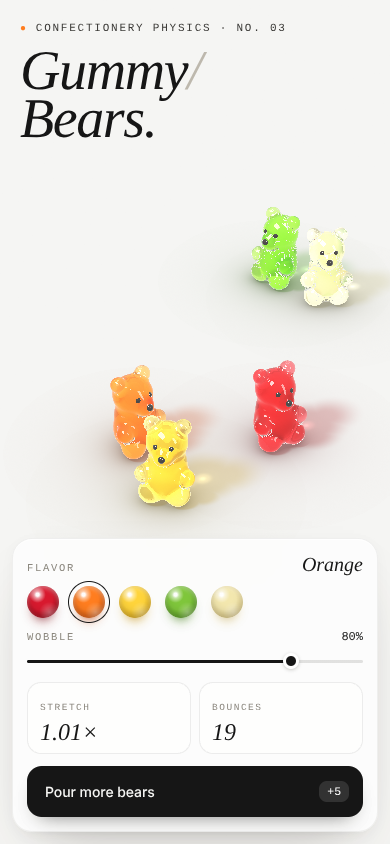
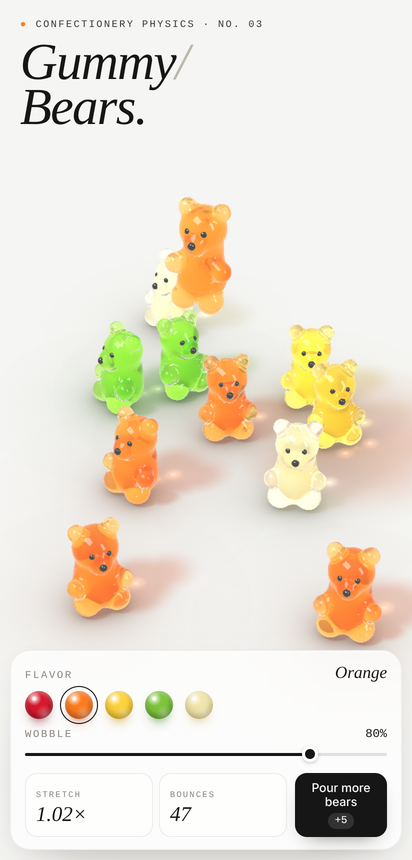
Fix unnatural scenes: no bear towers, natural taffy limit, mixed pours, phone layout
- Bears perched on other bears slide and tip off instead of stacking.
- Pulled parts stop at a natural taffy length (thinning floor 0.45);
  pulling further drags or lifts the whole bear.
- Pours land in open spots and mix flavors; flavor swatch recolors the
  last-touched (or front-most) bear; 12-bear cap on phones.
- Compact phone control card; table bounds stop above the card.
- Sharper rendering on phones (higher resolution floor, cheaper inner
  marches) and tamed grazing-angle sparkle on silhouettes.
- README (EN/zh-TW) updated to match.

diff --git a/gummy-bears.html b/gummy-bears.html
@@ -202,26 +202,34 @@
     .hints { grid-template-columns: max-content; }
   }
   @media (max-width: 860px), (max-height: 560px) {
-    .masthead { top: 22px; left: 20px; max-width: 300px; }
-    h1 { font-size: 56px; margin: 12px 0 10px; }
+    .masthead { top: 20px; left: 20px; max-width: 300px; }
+    .eyebrow { font-size: 10px; }
+    h1 { font-size: 52px; margin: 10px 0 8px; }
     .lede { font-size: 12.5px; max-width: 280px; }
     .hints { display: none; }
     .card {
-      top: auto; bottom: 12px; right: 12px; left: 12px; transform: none; width: auto;
-      padding: 14px 14px 14px; border-radius: 20px;
-      display: grid; grid-template-columns: 1fr 1fr; column-gap: 16px;
+      top: auto; bottom: max(10px, env(safe-area-inset-bottom)); right: 10px; left: 10px; transform: none; width: auto;
+      padding: 12px 14px; border-radius: 20px;
+      display: grid; grid-template-columns: minmax(0, 1fr) auto; column-gap: 8px;
     }
-    .card .flavor-block { grid-column: 1 / -1; }
-    .swatches { margin: 10px 0 12px; justify-content: flex-start; gap: 14px; }
-    .swatch { width: 32px; height: 32px; }
-    .slider { margin: 8px 0 12px; }
-    .stats { margin-bottom: 12px; }
-    .stat .num { font-size: 24px; }
-    .card .pour-block { grid-column: 1 / -1; }
+    .card .flavor-block, .card .wobble-block { grid-column: 1 / -1; }
+    .value-serif { font-size: 17px; }
+    .swatches { margin: 8px 0 8px; justify-content: flex-start; gap: 12px; }
+    .swatch { width: 28px; height: 28px; }
+    .slider { margin: 4px 0 10px; }
+    .stats { margin: 0; gap: 6px; }
+    .stat { padding: 7px 10px 6px; border-radius: 12px; }
+    .stat .label { font-size: 8.5px; }
+    .stat .num { font-size: 21px; margin-top: 3px; }
+    .pour-block { display: flex; }
+    .pour {
+      flex-direction: column; justify-content: center; gap: 4px; width: 92px; padding: 8px 10px;
+      font-size: 12px; line-height: 1.15; text-align: center; border-radius: 12px;
+    }
+    .pour .plus { padding: 2px 7px; font-size: 10.5px; }
   }
   @media (max-width: 420px) {
     .lede { display: none; }
-    .card { grid-template-columns: 1fr; }
   }
 </style>
 </head>
@@ -464,9 +472,9 @@ vec3 background(vec3 p, vec3 d) {
 }
 
 // ---------- Gelatin ----------
-float innerThick(int b, vec3 ro, vec3 rd) {
+float innerThick(int b, vec3 ro, vec3 rd, int steps) {
   float t = 0.0;
-  for (int i = 0; i < 30; i++) {
+  for (int i = 0; i < steps; i++) {
     float d = bearSDF(b, ro + rd * t);
     if (d > 0.0) break;
     t += max(-d * 0.95, 0.014);
@@ -503,13 +511,14 @@ vec3 shadeGummy(vec3 rd, vec3 p, vec3 n, int b) {
 
   float NdV = clamp(dot(n, -rd), 0.0, 1.0);
   float F = 0.04 + 0.96 * pow(1.0 - NdV, 5.0);
+  F *= mix(0.5, 1.0, smoothstep(0.0, 0.3, NdV));   // tame grazing sparkle on silhouettes
   vec3 R = reflect(rd, n);
-  vec3 refl = env(R);
+  vec3 refl = min(env(R), vec3(8.0));
 
   // Refraction through the body (Beer-Lambert)
   vec3 T = refract(rd, n, 1.0 / 1.45);
   p -= n * 0.012;                       // start just inside the gelatin
-  float th = innerThick(b, p, T) + 0.012;
+  float th = innerThick(b, p, T, 26) + 0.012;
   vec3 pe = p + T * th;
   vec3 ne = bearNormal(b, pe);
   vec3 To = refract(T, -ne, 1.45);
@@ -518,7 +527,7 @@ vec3 shadeGummy(vec3 rd, vec3 p, vec3 n, int b) {
 
   // Single scattering at mid-path: light that crossed the gelatin from the key softbox
   vec3 pm = p + T * th * 0.5;
-  float thl = innerThick(b, pm, LDIR);
+  float thl = innerThick(b, pm, LDIR, 12);
   vec3 scat = LCOL * exp(-sigma * (thl + th * 0.5)) * (1.0 - exp(-th * 1.6)) * 0.95;
   scat += col * col * 0.07 * (1.0 - exp(-th * 2.0));
   float wrap = clamp((dot(n, LDIR) + 0.5) / 1.5, 0.0, 1.0);
@@ -593,7 +602,7 @@ void main() {
   float t = tS;
   if (nc > 0) {
     tE = min(tE, tF + 0.01);
-    for (int i = 0; i < 128; i++) {
+    for (int i = 0; i < 100; i++) {
       int b; bool e;
       float d = mapScene(ro + rd * t, b, e);
       if (d < 0.0005 * t) { hit = true; hb = b; eyeHit = e; break; }
@@ -659,6 +668,7 @@ const MASS = NODES.map(n => n.m);
 const KB = NODES.map(n => n.kb);
 const M_TOTAL = MASS.reduce((a, b) => a + b, 0);
 const BONE = NODES.map((n, i) => n.parent < 0 ? [0, 0, 0] : REST[i].map((x, a) => x - REST[n.parent][a]));
+const IS_TOP = [0, 0, 1, 1, 1, 1, 0, 0, 0, 0];
 const NECK = [0.14, 0.32, 0, 0, 0, 0, 0.16, 0.16, 0, 0];         // torso follows a pulled head
 const KS = [1, 1, 1, 1.25, 1.25, 1.25, 0.8, 0.8, 1.1, 1.1];
 const DRAGW = [1.7, 1.7, 0.75, 0.4, 0.4, 0.4, 0.5, 0.5, 0.6, 0.6];
@@ -734,7 +744,8 @@ function makeBear(x, y, z, yaw, fl) {
     sy: 1, syVel: 0, anchor: 0, liftF: 0, upBias: 0,
     col: FLAVORS[fl].lin.slice(), tcol: FLAVORS[fl].lin.slice(), fl,
     alive: 1, dying: false, bounceCD: 0, air: 1,
-    com: [x, y, z], vcom: [0, 0, 0], base: [x, y, z], dh: [0, 0, 0],
+    com: [x, y, z], vcom: [0, 0, 0], base: [x, y, z], dh: [0, 0, 0], perch: [0, 0, 0], dragLift: false,
+    slipDir: rand(0, Math.PI * 2),
     wp: new Float32Array(NN * 3), wr: new Float32Array(NN), f: new Float32Array(NN).fill(1),
   };
   qToMat(B.q, B.R);
@@ -751,24 +762,38 @@ function makeBear(x, y, z, yaw, fl) {
 
 function setFlavor(B, fl) { B.fl = fl; B.tcol = FLAVORS[fl].lin.slice(); }
 
-function queuePour(n, flavorFn, delay = 0) {
-  const xs = [];
-  for (let k = 0; k < n; k++) {
-    const zc = rand(-1.3, 2.2);
-    const s = clamp((zc - bounds.zFar) / (bounds.zNear - bounds.zFar), 0, 1);
+function maxBears() { return W <= 860 || Hh <= 560 ? 12 : MAXB; }
+
+// pick the open spot on the table farthest from other bears (and queued drops)
+function freeSpot(taken) {
+  const zLo = bounds.zFar + 0.6, zHi = bounds.zNear - 0.6;
+  let best = null, bestD = -1;
+  for (let k = 0; k < 24; k++) {
+    const z = rand(zLo, zHi);
+    const s = clamp((z - bounds.zFar) / (bounds.zNear - bounds.zFar), 0, 1);
     const xl0 = lerp(bounds.xlf, bounds.xln, s), xr0 = lerp(bounds.xrf, bounds.xrn, s);
-    const xl = lerp(xl0, xr0, 0.3), xr = xr0 - 0.6;
-    let x = rand(xl, xr);
-    for (let tries = 0; tries < 8 && xs.some(o => Math.abs(o - x) < 0.8); tries++) x = rand(xl, xr);
-    xs.push(x);
-    spawnQueue.push({ at: simTime + delay + k * 0.14, x, z: zc, y: 4.6 + k * 0.35 + rand(0, 0.6), fl: flavorFn(k) });
+    const x = rand(lerp(xl0, xr0, W > 860 ? 0.28 : 0.08) + 0.5, xr0 - 0.5);
+    let d = 1e9;
+    for (const o of taken) d = Math.min(d, Math.hypot(o[0] - x, o[1] - z));
+    if (d > bestD) { bestD = d; best = [x, z]; }
+  }
+  return best;
+}
+
+function queuePour(n, flavorFn, delay = 0) {
+  const taken = bears.filter(b => !b.dying).map(b => [b.com[0], b.com[2]]);
+  for (const q of spawnQueue) taken.push([q.x, q.z]);
+  for (let k = 0; k < n; k++) {
+    const [x, z] = freeSpot(taken);
+    taken.push([x, z]);
+    spawnQueue.push({ at: simTime + delay + k * 0.16, x, z, y: 4.6 + k * 0.35 + rand(0, 0.6), fl: flavorFn(k) });
   }
 }
 
 function processSpawns() {
   spawnQueue.sort((a, b) => a.at - b.at);
   while (spawnQueue.length && spawnQueue[0].at <= simTime) {
-    if (bears.length >= MAXB) {
+    if (bears.length >= maxBears()) {
       if (!bears.some(b => b.dying)) {
         const victim = bears.find(b => !b.dying && !(grab && grab.B === b));
         if (victim) victim.dying = true;
@@ -776,7 +801,7 @@ function processSpawns() {
       return;                                         // wait for a free slot
     }
     const s = spawnQueue.shift();
-    bears.push(makeBear(s.x, s.y, s.z, rand(-0.45, 0.45), s.fl));
+    bears.push(makeBear(s.x, s.y, s.z, rand(-0.75, 0.75), s.fl));
   }
 }
 
@@ -789,7 +814,7 @@ function zetaFromWobble() { return lerp(0.9, 0.065, wobble); }
 function step(h) {
   const n = bears.length;
   const zeta = zetaFromWobble();
-  for (const B of bears) B.a.fill(0);
+  for (const B of bears) { B.a.fill(0); B.perch[0] = B.perch[1] = B.perch[2] = 0; }
 
   // soft bear-to-bear contact
   const KC = 2400, CC = 5;
@@ -815,6 +840,8 @@ function step(h) {
           if (f <= 0) continue;
           A.a[i * 3] += nx * f; A.a[i * 3 + 1] += ny * f; A.a[i * 3 + 2] += nz * f;
           Bb.a[j * 3] -= nx * f; Bb.a[j * 3 + 1] -= ny * f; Bb.a[j * 3 + 2] -= nz * f;
+          if (ny > 0.35) { A.perch[0] += dx; A.perch[1] += dz; A.perch[2]++; }
+          else if (ny < -0.35) { Bb.perch[0] -= dx; Bb.perch[1] -= dz; Bb.perch[2]++; }
         }
       }
     }
@@ -894,7 +921,7 @@ function step(h) {
       const gy = (R[1] * qx + R[4] * qy + R[7] * qz) * sy;
       anchorY += (p[I + 1] - gy) * MASS[i]; anchorM += MASS[i];
     }
-    const lifting = G && (G.kind === 'body' || B.liftF > M_TOTAL * GRAV * 1.05);
+    const lifting = G && (G.kind === 'body' || B.dragLift || B.liftF > M_TOTAL * GRAV * 1.05);
     const anchorTarget = anchorM > 0 && !lifting ? 1 : 0;
     B.anchor = lerp(B.anchor, anchorTarget, 1 - Math.exp(-h * (anchorTarget ? 40 : 12)));
     const ty = anchorM > 0 ? lerp(cy, anchorY / anchorM, B.anchor) : cy;
@@ -943,7 +970,19 @@ function step(h) {
       if (i === ex) B.liftF = Math.max(0, F * ny);
     }
 
+    // --- a gummy perched on another gummy can't balance: it slides and tips off
+    if (B.perch[2] > 0 && !G) {
+      let sx2 = B.perch[0], sz2 = B.perch[1];
+      const l = Math.hypot(sx2, sz2);
+      if (l < 0.05) { sx2 = Math.cos(B.slipDir); sz2 = Math.sin(B.slipDir); } else { sx2 /= l; sz2 /= l; }
+      for (let i = 0; i < NN; i++) {
+        const w = i === HEAD || IS_TOP[i] ? 12 : 5;           // top-heavy push → it topples
+        acc[i * 3] += sx2 * w; acc[i * 3 + 2] += sz2 * w;
+      }
+    }
+
     // --- interaction
+    B.dragLift = false;
     if (G) {
       const T = G.target, pv = G.pv;
       if (G.kind === 'body') {
@@ -954,10 +993,22 @@ function step(h) {
         }
       } else if (G.mode === 'pull') {
         const J = G.i * 3, P = PARENT[G.i] * 3;
-        // keep the taffy from being pulled further than ~2.4 units from its joint
+        // gelatin only stretches so far: past that the pull drags (or lifts) the whole bear
         let tx = T[0], ty2 = T[1], tz = T[2];
         const ddx = tx - p[P], ddy = ty2 - p[P + 1], ddz = tz - p[P + 2], dl = Math.hypot(ddx, ddy, ddz);
-        if (dl > 2.4) { const f = 2.4 / dl; tx = p[P] + ddx * f; ty2 = p[P + 1] + ddy * f; tz = p[P + 2] + ddz * f; }
+        const lmax = G.i === HEAD ? 1.0 : 1.1;
+        if (dl > lmax) {
+          const f = lmax / dl;
+          tx = p[P] + ddx * f; ty2 = p[P + 1] + ddy * f; tz = p[P + 2] + ddz * f;
+          const e = 1 - f, exx = ddx * e, eyy = ddy * e, ezz = ddz * e;
+          for (let i = 0; i < NN; i++) {
+            if (i === G.i) continue;
+            acc[i * 3] += 70 * exx - 4 * (v[i * 3] - pv[0]);
+            acc[i * 3 + 1] += 70 * eyy - 4 * (v[i * 3 + 1] - pv[1]);
+            acc[i * 3 + 2] += 70 * ezz - 4 * (v[i * 3 + 2] - pv[2]);
+          }
+          if (eyy > 0.12) B.dragLift = true;
+        }
         acc[J] = 900 * (tx - p[J]) - 55 * (v[J] - pv[0]);
         acc[J + 1] = 900 * (ty2 - p[J + 1]) - 55 * (v[J + 1] - pv[1]);
         acc[J + 2] = 900 * (tz - p[J + 2]) - 55 * (v[J + 2] - pv[2]);
@@ -1054,7 +1105,7 @@ function pack() {
       const P = PARENT[i] * 3, I = i * 3;
       const L = Math.hypot(p[I] - p[P], p[I + 1] - p[P + 1], p[I + 2] - p[P + 2]);
       const s = L / Math.max(B.L0[i], 1e-3);
-      B.f[i] = clamp(1 / Math.sqrt(Math.max(s, 1e-3)), 0.3, 1.12);
+      B.f[i] = clamp(1 / Math.sqrt(Math.max(s, 1e-3)), 0.45, 1.12);
       stretchNow = Math.max(stretchNow, s);
     }
     stretchNow = Math.max(stretchNow, sy > 1 ? sy : 1 / sy);
@@ -1147,7 +1198,8 @@ gl.bindVertexArray(gl.createVertexArray());
 const U = {};
 for (const name of ['uCount', 'uRes', 'uCamPos', 'uFw', 'uRt', 'uUp', 'uFocal']) U[name] = gl.getUniformLocation(prog, name);
 
-let renderScale = Math.min(window.devicePixelRatio || 1, 1.25);
+let renderScale = Math.min(window.devicePixelRatio || 1, 1.5);
+const minScale = Math.min(window.devicePixelRatio || 1, 0.8);
 const maxScale = Math.min(window.devicePixelRatio || 1, 2);
 let W = innerWidth, Hh = innerHeight;
 
@@ -1202,7 +1254,8 @@ function computeBounds() {
   const y0 = 0.6;
   const wide = W > 860 && Hh > 560;
   const leftPx = 18, rightPx = wide ? W - 340 : W - 18;
-  const botPx = wide ? Hh - 24 : Hh - (W <= 420 ? 330 : 250);
+  const cardTop = document.querySelector('.card').getBoundingClientRect().top;
+  const botPx = wide ? Hh - 24 : Math.min(Hh - 24, cardTop - 6);
   const topPx = wide ? Hh * 0.2 : Hh * 0.28;
   const at = (px, py) => {
     const r = rayFrom(px, py);
@@ -1403,9 +1456,10 @@ function selectFlavor(idx, recolor) {
   flavorNameEl.textContent = FLAVORS[idx].name;
   document.documentElement.style.setProperty('--accent', FLAVORS[idx].css);
   if (!recolor) return;
-  // re-flavor the bear you last touched, or the whole table if none yet
+  // re-flavor the bear you last touched
   if (lastTouched && bears.includes(lastTouched) && !lastTouched.dying) setFlavor(lastTouched, idx);
-  else bears.forEach(B => setFlavor(B, idx));
+  // otherwise the bear nearest the front of the table
+  else if (bears.length) setFlavor(bears.reduce((a, b) => (b.com[2] > a.com[2] ? b : a)), idx);
 }
 selectFlavor(1, false);
 
@@ -1418,7 +1472,9 @@ wobbleEl.addEventListener('input', () => setWobble(+wobbleEl.value));
 setWobble(80);
 
 document.getElementById('pour').addEventListener('click', () => {
-  queuePour(5, () => activeFlavor);
+  // a handful in the chosen flavor, mixed with a few others, like a real bag
+  const others = FLAVORS.map((_, i) => i).filter(i => i !== activeFlavor);
+  queuePour(5, k => (k % 2 === 0 ? activeFlavor : others[Math.floor(Math.random() * others.length)]));
 });
 
 let shownBounces = -1, bumpTimer = 0;
@@ -1473,7 +1529,7 @@ function frame(now) {
   // adaptive resolution
   ftAvg = lerp(ftAvg, dt * 1000, 0.05);
   if (++ftCount > 45) {
-    if (ftAvg > 21 && renderScale > 0.5) { renderScale = Math.max(0.5, renderScale * 0.86); resize(); ftCount = 0; }
+    if (ftAvg > 21 && renderScale > minScale) { renderScale = Math.max(minScale, renderScale * 0.88); resize(); ftCount = 0; }
     else if (ftAvg < 14 && renderScale < maxScale) { renderScale = Math.min(maxScale, renderScale * 1.07); resize(); ftCount = 0; }
     else ftCount = 30;
   }

diff --git a/README.md b/README.md
@@ -53,9 +53,9 @@ Then open <http://localhost:8000/>.
 | **Drag the head down** | Squash the bear into a pancake; release to launch it |
 | **Drag the belly / chest** | Pick the whole bear up and carry it |
 | **Release while moving** | Flick: the bear is thrown with the pointer's momentum |
-| Click a **flavor** swatch | Recolor the last bear you touched (or every bear, if you haven't touched one yet); new pours use this flavor |
+| Click a **flavor** swatch | Recolor the last bear you touched (or the front-most bear, if you haven't touched one yet). New pours favor this flavor, mixed with a few others like a real bag |
 | **Wobble** slider | 0% is firm and quickly damped; 100% is very jiggly |
-| **Pour more bears** | Drop 5 new bears from above (up to 20; the oldest fade out) |
+| **Pour more bears** | Drop 5 new bears into open spots on the table (up to 20 on desktop and 12 on phones; the oldest fade out) |
 
 Mouse, touch and pen all work. On desktop the pointer is a thin ring with a centre dot that shrinks when you grab, squashes while you press, and stretches in the direction you pull.
 
@@ -63,7 +63,7 @@ Mouse, touch and pen all work. On desktop the pointer is a thin ring with a cent
 
 The bears follow four interactions, listed at the bottom left of the page:
 
-1. **Pull limb / ear: stretch & wobble.** The pulled part stretches into a gelatin bridge that thins as it lengthens. The pull travels through the bear's springs, so it leans toward you. Let go and the part snaps back like a rubber band, and the recoil sets the whole bear wobbling.
+1. **Pull limb / ear: stretch & wobble.** The pulled part stretches into a gelatin bridge that thins as it lengthens. Past a natural taffy length, the pull drags the whole bear, or lifts it so it dangles. The pull travels through the bear's springs, so it leans toward you. Let go and the part snaps back like a rubber band, and the recoil sets the whole bear wobbling.
 2. **Pull head up: neck stretch & hop.** The chest and belly are drawn up with the head and the neck elongates. On release the bear springs into a hop.
 3. **Press head down: pancake & launch.** All nodes spread outward and flatten into a wide pancake (volume is preserved), storing elastic energy. On release the bear launches high into the air, spinning.
 4. **Flick: throw & scatter.** Release any part mid-motion to throw the bear. It bounces several times with a squash on each landing, rebounds off the walls, and bumps softly into other bears.
@@ -73,7 +73,7 @@ The card on the right shows two live numbers:
 - **STRETCH:** the current largest stretch ratio on the table.
 - **BOUNCES:** how many landings have happened so far.
 
-A bear that topples over slowly rights itself back onto its feet.
+A bear that topples over slowly rights itself back onto its feet. A bear that lands on another bear can't balance there: it slides and tips off.
 
 ## Rendering
 

diff --git a/README.zh-TW.md b/README.zh-TW.md
@@ -53,9 +53,9 @@ npx serve .
 | **往下拖曳頭部** | 把小熊壓成鬆餅；放開後彈飛 |
 | **拖曳肚皮／胸腔** | 整隻抓起來移動 |
 | **移動中放開** | 甩動：依指標的速度把小熊拋出去 |
-| 點選 **FLAVOR** 色球 | 替最後碰過的小熊換口味（尚未碰過任何小熊時則全部換）；之後倒出的小熊也會是這個口味 |
+| 點選 **FLAVOR** 色球 | 替最後碰過的小熊換口味（尚未碰過任何小熊時，換最前面那一隻）。之後倒出的小熊以這個口味為主，並像真的一包軟糖一樣混入其他口味 |
 | **WOBBLE** 滑桿 | 0% 偏硬、很快停止晃動；100% 非常 Q 彈 |
-| **Pour more bears** 按鈕 | 從上方倒下 5 隻新小熊（最多 20 隻，最舊的會淡出） |
+| **Pour more bears** 按鈕 | 在桌面的空位倒下 5 隻新小熊（桌機最多 20 隻、手機最多 12 隻，最舊的會淡出） |
 
 支援滑鼠、觸控與觸控筆。桌機上的游標是一個細圓圈加中心點：抓住時圓圈會縮小，下壓時會被壓扁，拉扯時會順著方向拉長。
 
@@ -63,7 +63,7 @@ npx serve .
 
 小熊有四種互動方式，也列在頁面左下角：
 
-1. **Pull limb / ear：拉長與晃動。** 被拉的部位會拉出一條越拉越細的果凍肉橋。拉力會透過結構彈簧傳到全身，小熊會順著拉的方向傾斜。放開後該部位像橡皮筋一樣彈回去，反作用力讓整隻小熊一起 Q 彈晃動。
+1. **Pull limb / ear：拉長與晃動。** 被拉的部位會拉出一條越拉越細的果凍肉橋。超過自然的牛軋糖長度後，再拉就會拖動整隻小熊，或把牠吊起來晃。拉力會透過結構彈簧傳到全身，小熊會順著拉的方向傾斜。放開後該部位像橡皮筋一樣彈回去，反作用力讓整隻小熊一起 Q 彈晃動。
 2. **Pull head up：拉長脖子並跳起。** 頭往上拉時，胸腔和肚皮也被一起往上牽引，脖子拉長。放開後小熊彈跳起來。
 3. **Press head down：壓成鬆餅再彈飛。** 所有節點向四周攤開、垂直壓扁成鬆餅，體積守恆，同時把彈性能量存起來。放開後小熊旋轉著高高彈飛。
 4. **Flick：甩出與四散。** 抓住任何部位，在移動中放開就會把小熊拋出去。小熊落地時會被壓扁再彈起，連續彈跳好幾次，碰到牆壁會反彈，也會和其他小熊柔軟地互相碰撞。
@@ -73,7 +73,7 @@ npx serve .
 - **STRETCH：** 目前桌上最大的拉伸倍率。
 - **BOUNCES：** 累計的落地彈跳次數。
 
-被撞倒的小熊會慢慢自己站回來。
+被撞倒的小熊會慢慢自己站回來。掉到別隻小熊身上時站不穩，會滑下來或翻倒，不會疊成一座塔。
 
 ## 渲染技術
 
